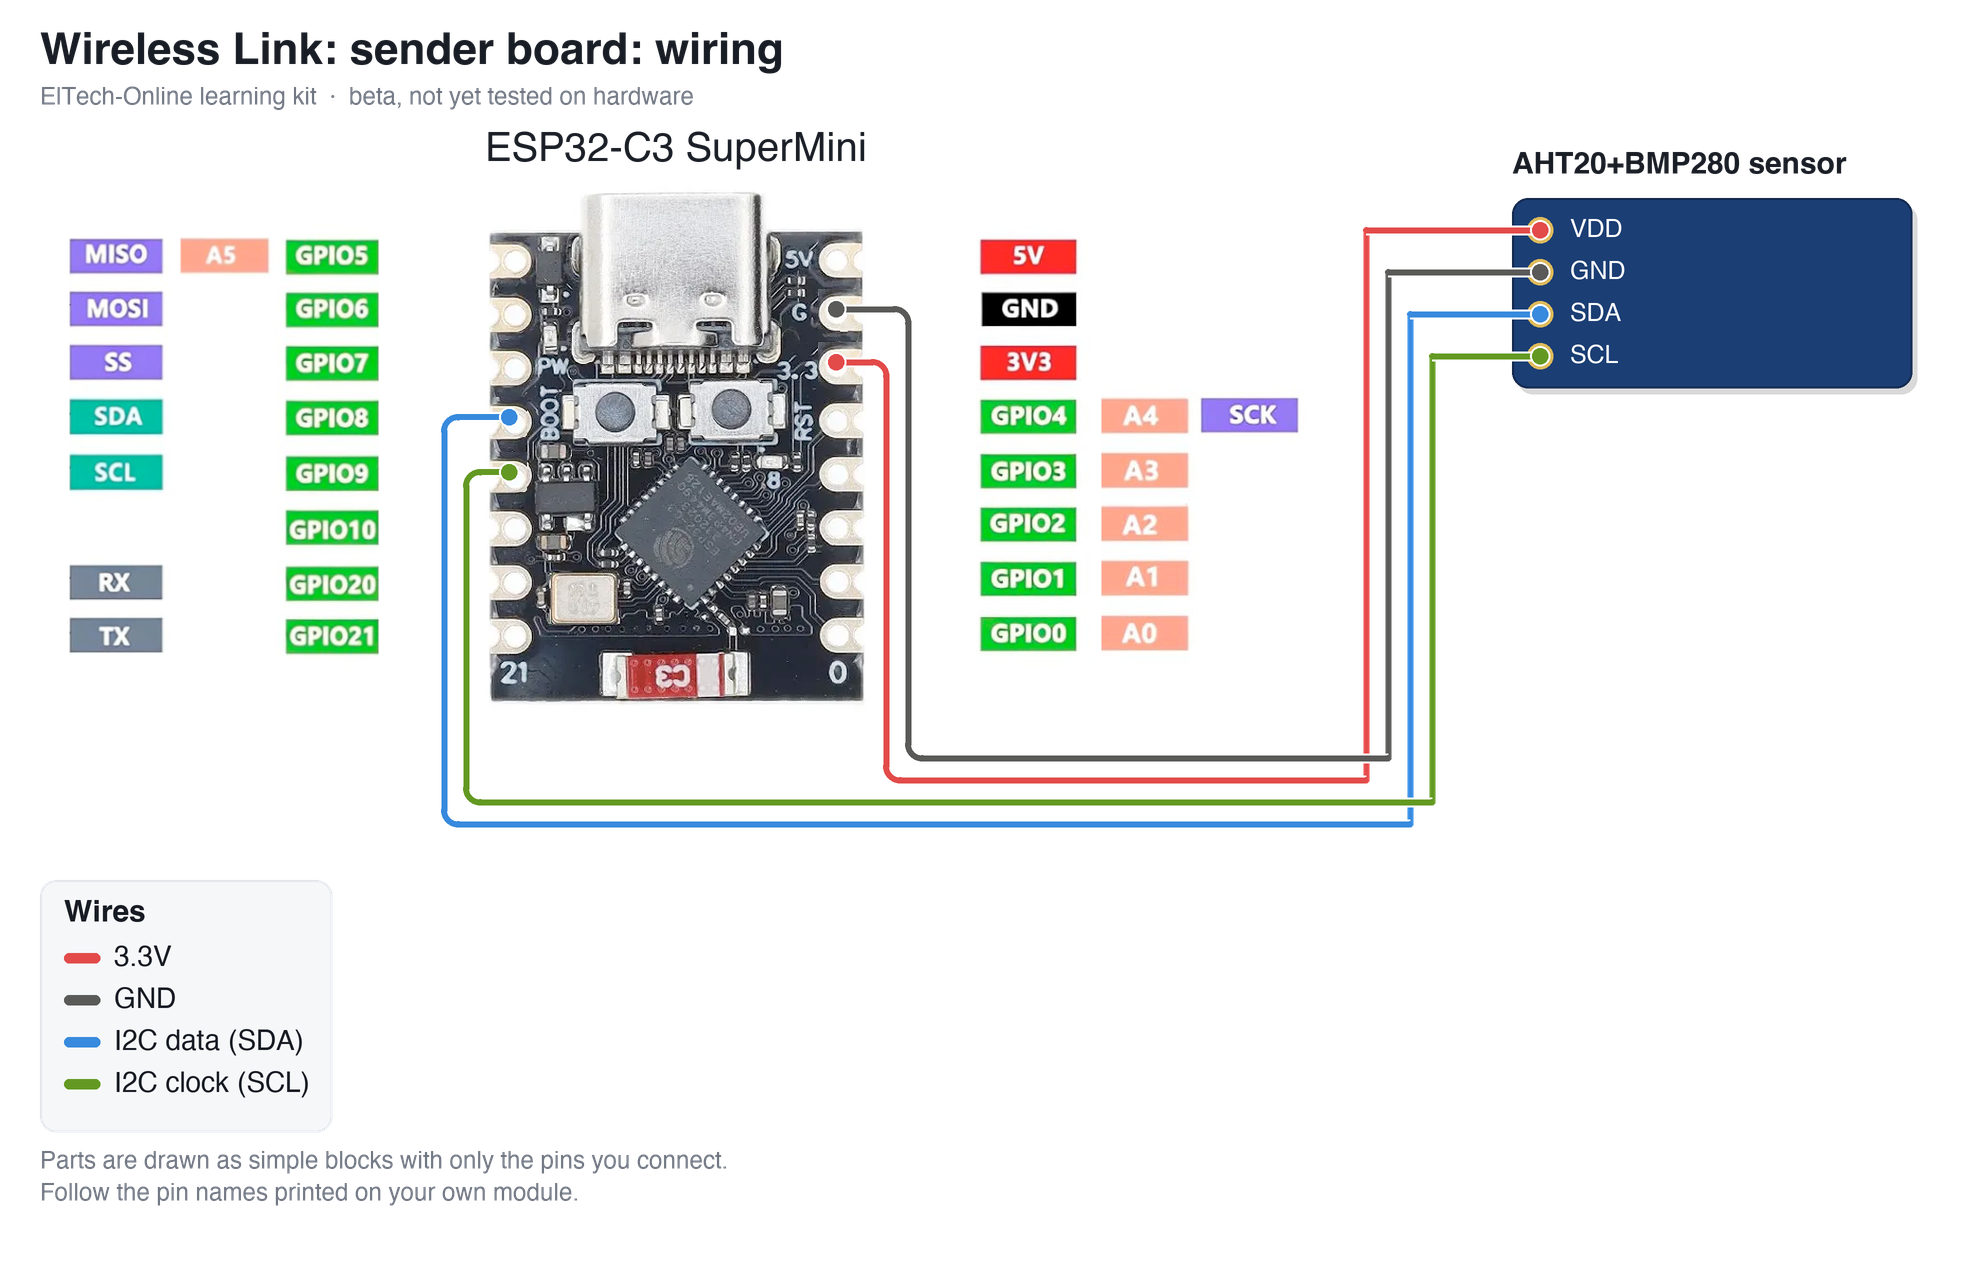
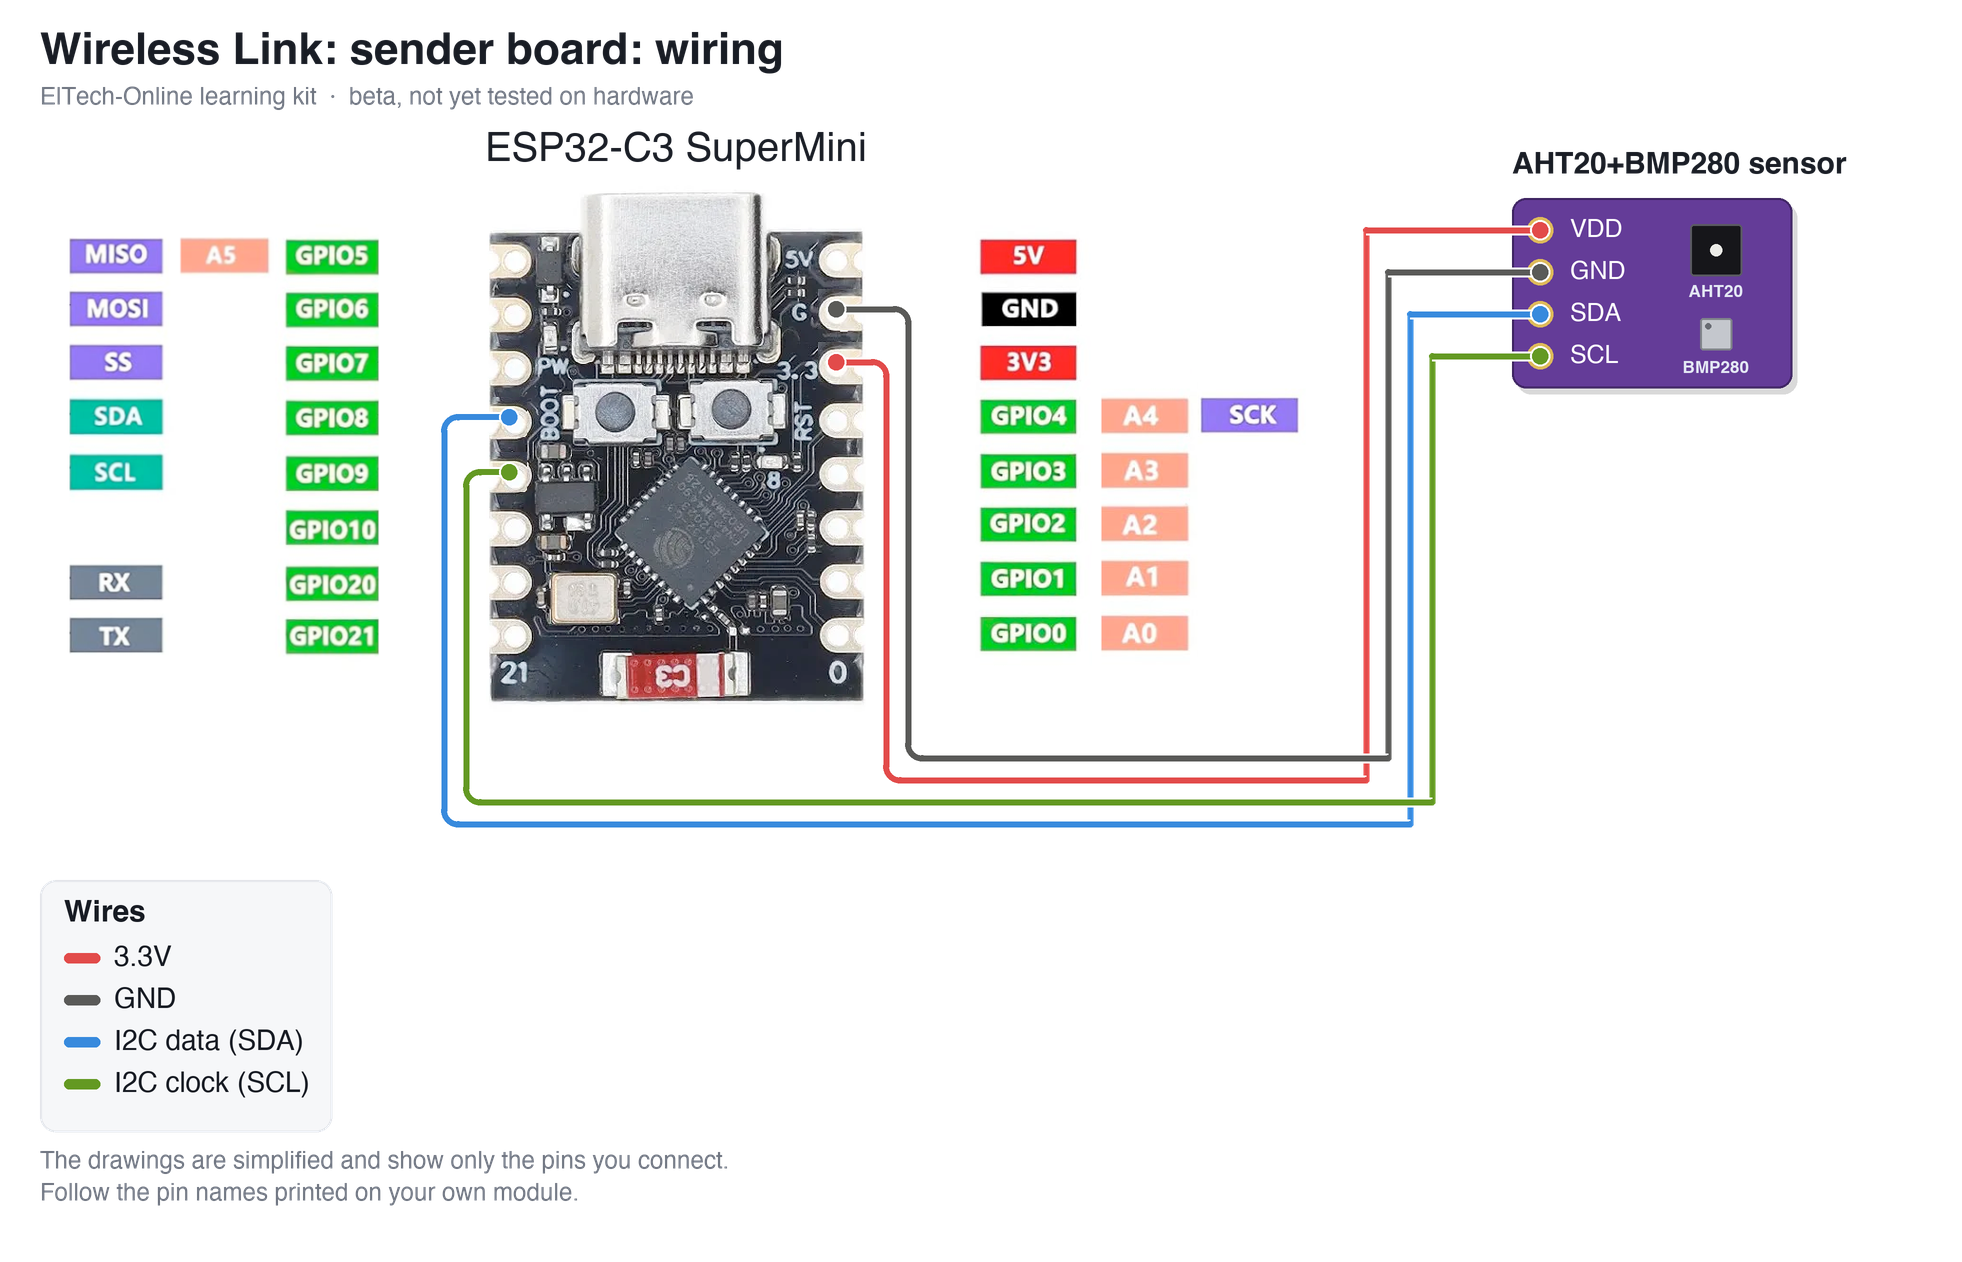
Wiring diagram: draw the parts as pictures instead of plain blocks

Changed region(s): [[0.7462, 0.1545, 0.9949, 0.3399], [0.0311, 0.8962, 0.3731, 0.9271]]

diff --git a/README.md b/README.md
@@ -109,7 +109,7 @@ There are **two sketches** in this repo:
 
 ![Wiring diagram: Wireless Link: receiver board](wiring_receiver.png)
 
-The parts are drawn as simple blocks showing only the pins you connect. **Always follow the labels printed on your own modules** — the pin order differs between manufacturers.
+The parts are drawn in a simplified way, showing only the pins you connect. **Always follow the labels printed on your own modules** — the pin order differs between manufacturers.
 
 Good to know:
 
